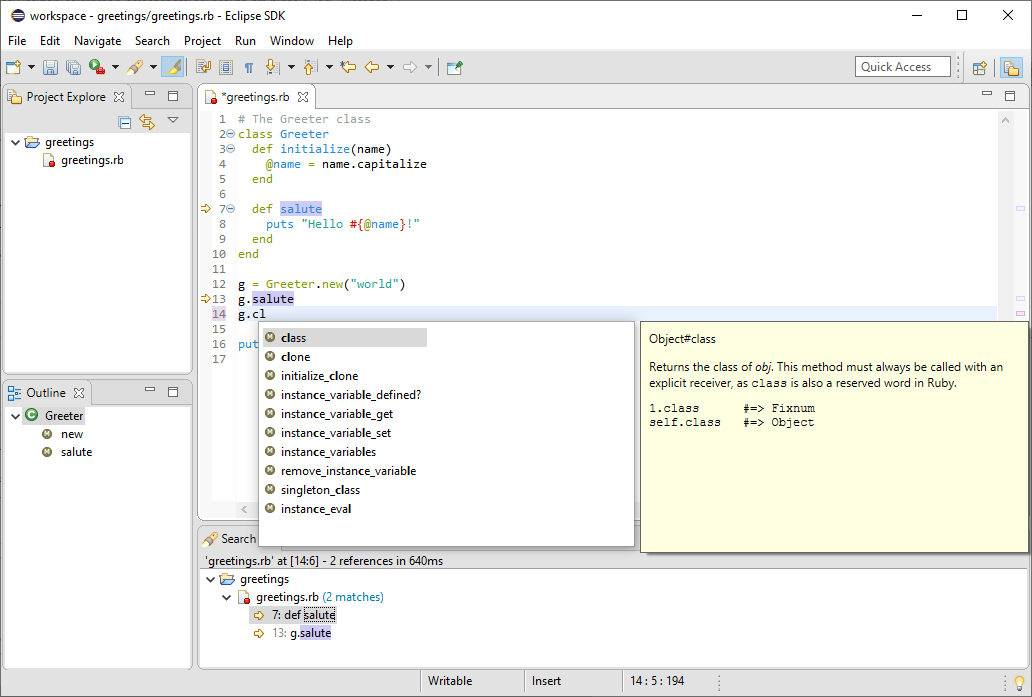
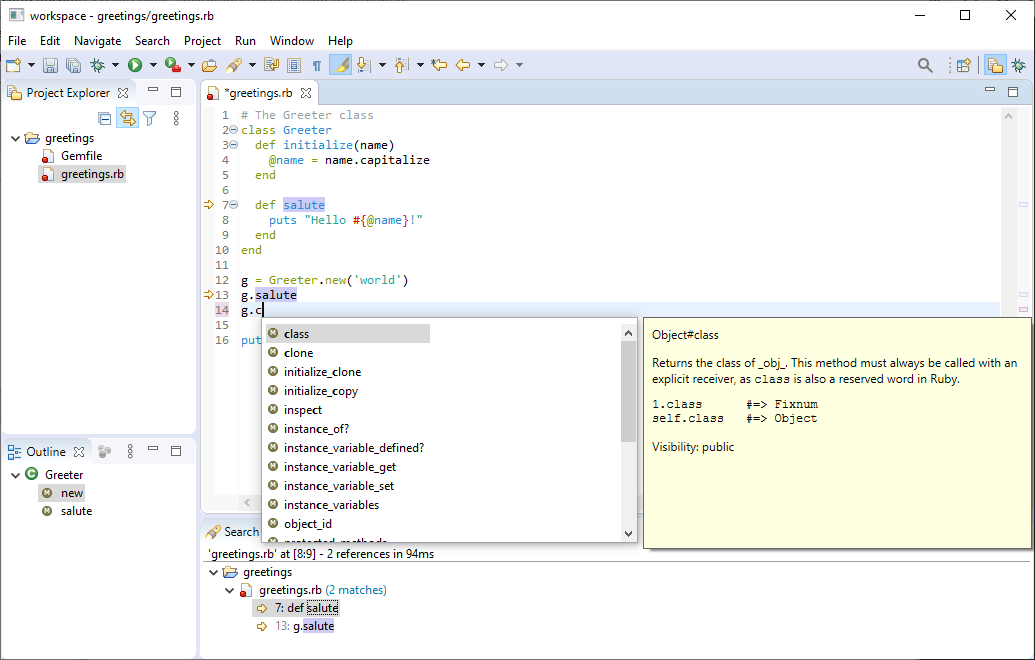
Added debugger information and updated screenshots

Changed region(s): [[0.0, 0.0, 1.0, 1.0], [0.9612, 0.0, 0.9922, 0.0303]]

diff --git a/README.md b/README.md
@@ -20,10 +20,12 @@
 
 **Ruby plugin combining the powers of the Eclipse IDE and the Solargraph language server!**
 
-<p align="center" style="font-size:5px">
-<img src ="https://github.com/PyvesB/eclipse-solargraph/blob/master/images/editor.png?raw=true" />
+<p align="center" style="font-size:5px;">
 <br />
-<i><sub>Ruby edition with syntax highlighting, autocomplete, docs, outline and references search. Many other features are also available.</sub></i>
+<img src ="https://github.com/PyvesB/eclipse-solargraph/blob/master/images/editor.png?raw=true" width="430" />
+<img src ="https://github.com/PyvesB/eclipse-solargraph/blob/master/images/debugger.png?raw=true" width="430" />
+<br />
+<i><sub>Left: Ruby edition with syntax highlighting, autocomplete, docs, outline, references search and many other features! Right: debugging session!</sub></i>
 </p>
 
 # Features at a glance
@@ -38,6 +40,7 @@
 * Run files as Ruby scripts with customisable launch configurations
 * Run `bundle install` on Gemfiles and `gem build` on gemspec files
 * Various other features part of the Language Server Protocol
+* Experimental debugger
 
 Check out what's new in the [latest releases](https://github.com/PyvesB/eclipse-solargraph/releases)!
 
@@ -87,6 +90,7 @@ Find the project useful, fun or interesting? **Star** the repository by clicking
 
 The following projects are used by this plugin:
 * [Solargraph](http://solargraph.org/) by [castwide](https://github.com/castwide): underlying language server (MIT License) and adapted marketplace logo (CC BY-SA License).
+* [Readapt](https://github.com/castwide/readapt) by [castwide](https://github.com/castwide): debugger (MIT License).
 * [LSP4E](https://projects.eclipse.org/projects/technology.lsp4e): Language Server Protocol support in the Eclipse IDE (Eclipse Public License).
 * [VS Code](https://code.visualstudio.com/): TextMate language configuration (MIT License).
 * [TM4E](https://projects.eclipse.org/projects/technology.tm4e): TextMate support in the Eclipse IDE (Eclipse Public License).
